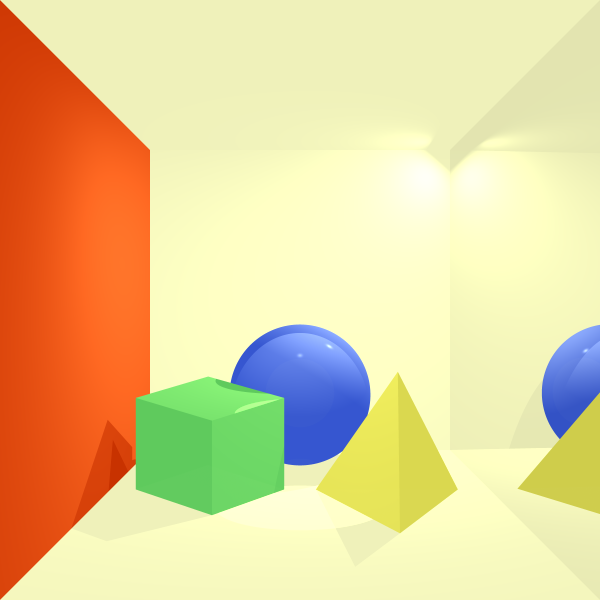
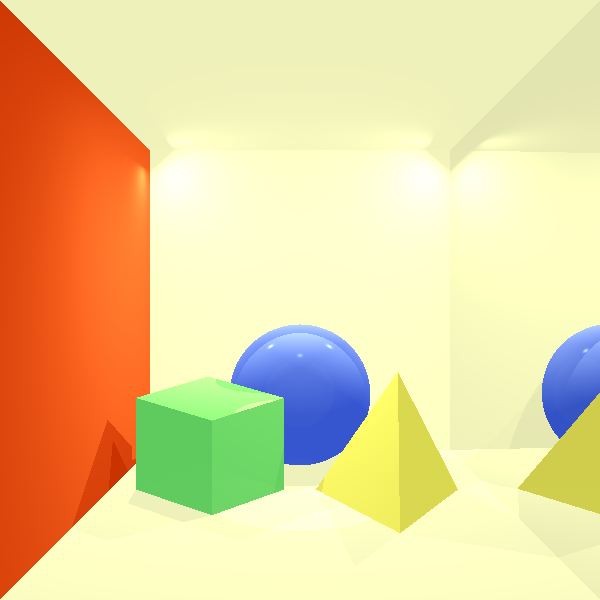
mp1

Changed region(s): [[0.21, 0.54, 0.54, 0.72], [0.21, 0.24, 0.39, 0.39], [0.96, 0.54, 1.0, 0.57]]

diff --git a/test/renderer/ReflectionRefractionTests.java b/test/renderer/ReflectionRefractionTests.java
@@ -237,23 +237,24 @@ public class ReflectionRefractionTests {
                 new Triangle(new Point3D(5,-60,50),new Point3D(50,-60,50),new Point3D(30,-70,100)).setEmission(new Color(214,212,78))
                         .setMaterial(new Material().setKd(0.8).setkT(0.02).setkR(0).setKs(1).setnShininess(500)),
                 //front right
-                new Polygon(P,S,L,N).setEmission(new Color(94,199,92)).setMaterial(new Material().setKd(0.8).setkT(0.02).setkR(0).setKs(1).setnShininess(400)),
+                new Polygon(P,S,L,N).setEmission(new Color(94,199,92)).setMaterial(new Material().setKd(0.8).setkT(0.02).setkR(0).setKs(1).setnShininess(500)),
                 //front left
-                new Polygon(Q,P,N,M).setEmission(new Color(94,199,92)).setMaterial(new Material().setKd(0.8).setkT(0.02).setkR(0).setKs(1).setnShininess(400)),
+                new Polygon(Q,P,N,M).setEmission(new Color(94,199,92)).setMaterial(new Material().setKd(0.8).setkT(0.02).setkR(0).setKs(1).setnShininess(500)),
                 //BEHIND right
-                new Polygon(R,S,L,O).setEmission(new Color(94,199,92)).setMaterial(new Material().setKd(0.8).setkT(0.02).setkR(0).setKs(1).setnShininess(400)),
+                new Polygon(R,S,L,O).setEmission(new Color(94,199,92)).setMaterial(new Material().setKd(0.8).setkT(0.02).setkR(0).setKs(1).setnShininess(500)),
                 //BEHIND LEFT
-                new Polygon(Q,R,O,M).setEmission(new Color(94,199,92)).setMaterial(new Material().setKd(0.8).setkT(0.02).setkR(0).setKs(1).setnShininess(400)),
+                new Polygon(Q,R,O,M).setEmission(new Color(94,199,92)).setMaterial(new Material().setKd(0.8).setkT(0.02).setkR(0).setKs(1).setnShininess(500)),
                 //UP
-                new Polygon(Q,R,S,P).setEmission(new Color(94,199,92)).setMaterial(new Material().setKd(0.8).setkT(0.02).setkR(0).setKs(1).setnShininess(400)),
+                new Polygon(Q,R,S,P).setEmission(new Color(94,199,92)).setMaterial(new Material().setKd(0.8).setkT(0.02).setkR(0).setKs(1).setnShininess(500)),
                 //DOWN
-                new Polygon(M,O,L,N).setEmission(new Color(94,199,92)).setMaterial(new Material().setKd(0.8).setkT(0.02).setkR(0).setKs(1).setnShininess(400)));
+                new Polygon(M,O,L,N).setEmission(new Color(94,199,92)).setMaterial(new Material().setKd(0.8).setkT(0.02).setkR(0).setKs(1).setnShininess(500)));
 
 
         //we add source light- spot one, with discount coefficients. We wanted the light not to be too strong so we set the coefficient kc quite high and also kl not really low
        scene._lights.add(new SpotLight(new Color(255, 253, 160), new Point3D(0, 64, 70), new Vector(0, -5, 1)).setKc(0.8).setKl(0.03));
       //we add source light- spot one, with discount coefficients. We wanted the light not to be too strong so we set the coefficient kc quite high and also kl not really low
         scene._lights.add(new SpotLight(new Color(255, 253, 160), new Point3D(48, 48, 10), new Vector(-66, -75, 23)).setKc(0.08).setKl(0.03));
+        scene._lights.add(new SpotLight(new Color(255, 253, 160), new Point3D(-48, 48, 10), new Vector(66, -71, 23)).setKc(0.08).setKl(0.03));
 
         ImageWriter imageWriter = new ImageWriter("Mp1", 600, 600);
         Render render = new Render() //
@@ -261,7 +262,7 @@ public class ReflectionRefractionTests {
                 .setCamera(camera) //
                 .setRayTracerBase(new BasicRayTracer(scene));
         //Uses improvement of super sampling with parameter = 9
-        render.renderImage(9);
+        render.renderImage();
         render.writeToImage();
     }
 
